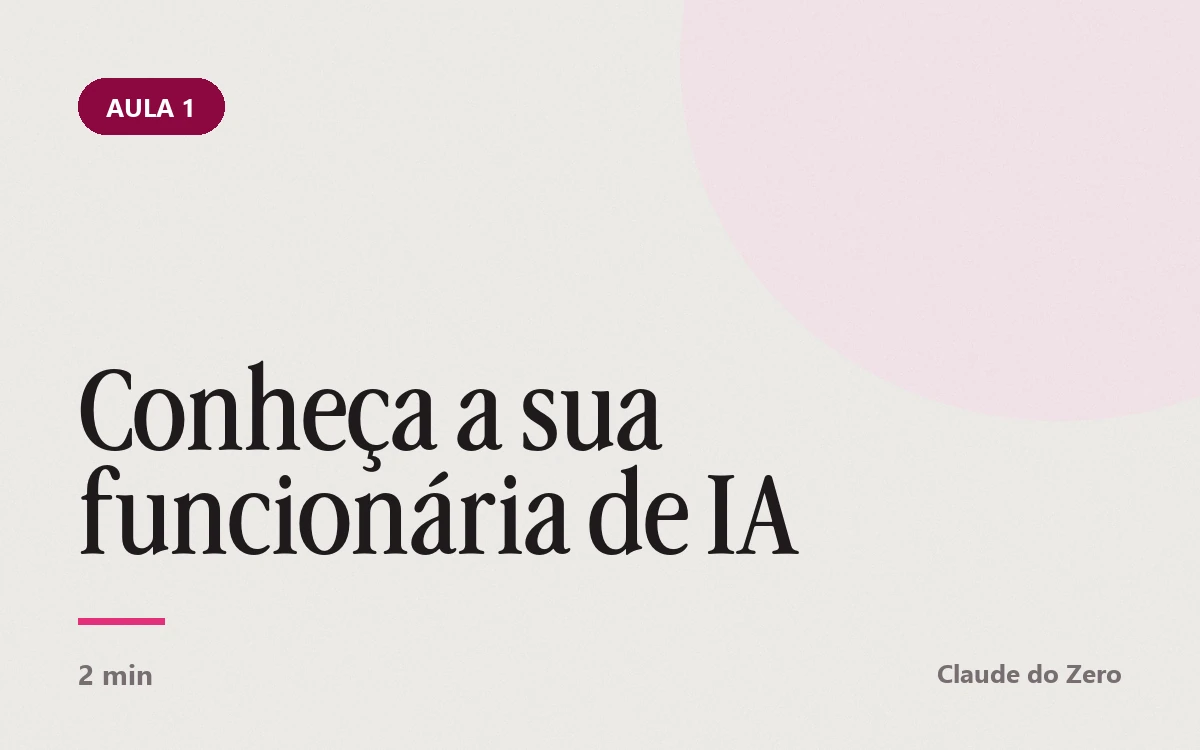
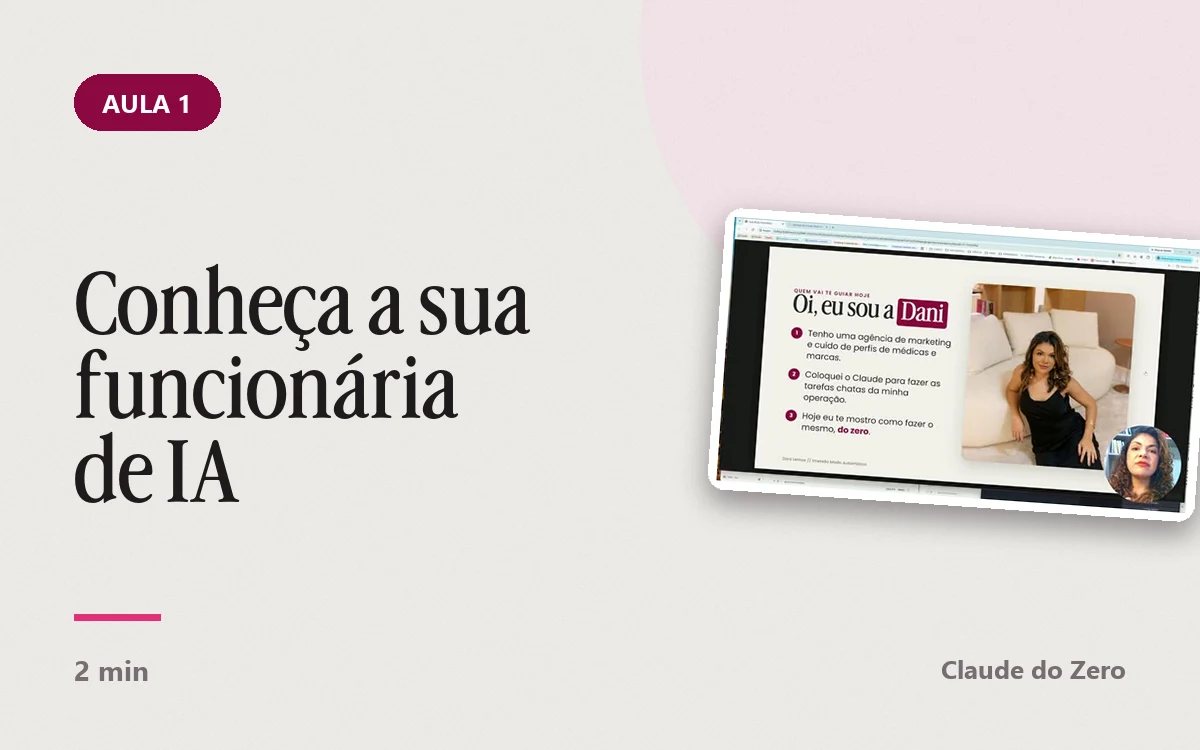
claude-do-zero: capas com tela real e icones das ferramentas, e o buraco entre topo e aulas fechado

diff --git a/claude-do-zero/index.html b/claude-do-zero/index.html
@@ -1,4 +1,4 @@
-<!doctype html>
+<!doctype html>
 <html lang="pt-BR">
 <head>
 <meta charset="utf-8">
@@ -211,7 +211,9 @@ footer .wrap{border-top:1px solid var(--linha-esc);padding-block:22px 90px;displ
 /* ---------- AS AULAS POR DENTRO ----------
    E o bloco que vende: o produto vira um produto, com capa, nome, numero e duracao, e da
    para arrastar e espiar. Cada capa e um quadro do proprio video da aula. */
-.aulas{padding-block:clamp(56px,8vw,92px)}
+/* o topo entrega direto nas aulas: sem respiro duplo no meio do escuro */
+.topo{padding-bottom:clamp(30px,4vw,48px)}
+.aulas{padding-block:clamp(30px,4vw,48px) clamp(56px,8vw,92px)}
 .aulas .cabeca{text-align:center;max-width:700px;margin:0 auto}
 .aulas .arraste{color:var(--suave);font-size:16px;margin-top:14px}
 .escuro .aulas .arraste{color:var(--suave-esc)}

diff --git a/claude-do-zero/montar-capas.py b/claude-do-zero/montar-capas.py
@@ -1,12 +1,16 @@
-"""Desenha as capas das aulas: uma por tema, no design system dela.
+"""Desenha as capas das aulas: uma por tema, no design system dela, com imagem real.
 
-A Dani vetou os quadros de video como capa. O que ela quer e um TEMPLATE: cada capa anuncia
-o que a aula faz, em frase de acao, do jeito que a pessoa pensa ("que plano do Claude
-assinar", "crie o seu clone no Claude").
+A Dani vetou duas coisas antes: o nome de aula como titulo (tem que ser uma acao que a
+pessoa imagina fazendo) e a capa sendo so texto (tem que ser visual). Entao cada capa tem:
 
-Molde da capa: papel gelo com grao, pastilha magenta com o numero, titulo grande em
-Advercase, filete magenta e o tempo no rodape. Clara de proposito, porque elas aparecem
-empilhadas em cima do fundo escuro do topo.
+  * pastilha magenta com o numero da aula;
+  * a acao em Advercase grande, do lado esquerdo;
+  * UMA TELA DE VERDADE da propria aula, encaixada do lado direito, torta e com sombra;
+  * nas aulas de ferramenta, os icones reais recortados da propria tela de conectores dela;
+  * filete magenta, tempo e assinatura no rodape.
+
+Entradas: os quadros em frames/ (tirados dos videos das aulas) e telas/descobrir.webp,
+de onde saem os icones de verdade do Google Drive, Gmail, Canva e Notion.
 
 Saida: aulas/capa-1.webp ... capa-8.webp
 """
@@ -15,35 +19,40 @@ import random
 from pathlib import Path
 
 from fontTools.ttLib import TTFont
-from PIL import Image, ImageDraw, ImageFont
+from PIL import Image, ImageDraw, ImageFilter, ImageFont
 
 AQUI = Path(__file__).resolve().parent
 ASSETS = Path("G:/Meu Drive/DANIELLE   PROJETOS/PRODUTOS DL ESTÚDIO/04 KIT E PLUGINS/_paginas/assets")
+FRAMES = Path("C:/Users/Micro/AppData/Local/Temp/claude/G--Meu-Drive-DANIELLE---PROJETOS-REDES-SOCIAIS---DANIELLE-LEMOS/2d521f0d-aa7d-472c-a4e3-26eedfd0f682/scratchpad/frames")
 DESTINO = AQUI / "aulas"
 
 L, A = 1200, 750
 GELO = (244, 242, 238)
-PAPEL = (251, 250, 248)
 TINTA = (32, 26, 29)
 MAGENTA = (139, 8, 63)
 ACESA = (226, 48, 122)
 SUAVE = (120, 110, 114)
 
+# (numero, titulo, tempo, quadro da aula, mostra os icones das ferramentas?)
 CAPAS = [
-    (1, "Conheça a sua\nfuncionária de IA", "2 min"),
-    (2, "Que plano do\nClaude assinar", "8 min"),
-    (3, "Crie o seu\nclone no Claude", "12 min"),
-    (4, "Ligue o Claude no\nseu Gmail e no Drive", "15 min"),
-    (5, "Peça uma página\ne receba o link", "12 min"),
-    (6, "Coloque o Claude\nno seu WhatsApp", "4 min"),
-    (7, "Crie robôs que\ntrabalham sozinhos", "5 min"),
-    (8, "Espie a plataforma\nda minha equipe", "6 min"),
+    (1, "Conheça a sua\nfuncionária\nde IA", "2 min", "a1.jpg", False),
+    (2, "Que plano\ndo Claude\nassinar", "8 min", "a2.jpg", False),
+    (3, "Crie o seu\nclone no\nClaude", "12 min", "a3.jpg", False),
+    (4, "Ligue o Claude\nno seu Gmail\ne no Drive", "15 min", "a4.jpg", True),
+    (5, "Peça uma\npágina e\nreceba o link", "12 min", "a5.jpg", False),
+    (6, "Coloque o\nClaude no seu\nWhatsApp", "4 min", "a6.jpg", False),
+    (7, "Crie robôs que\ntrabalham\nsozinhos", "5 min", "a7.jpg", False),
+    (8, "Espie a\nplataforma da\nminha equipe", "6 min", "a8.jpg", False),
 ]
 
+# recortes dos icones reais dentro de telas/descobrir.webp (1049x823)
+ICONES = [(238, 182), (636, 182), (238, 299), (636, 299), (636, 416)]
+LADO_ICONE = 48
 
-def fonte_de_woff2(arquivo, tamanho):
+
+def fonte_advercase(tamanho):
     """Pillow nao le woff2, entao a fonte e convertida para ttf na memoria."""
-    f = TTFont(ASSETS / arquivo)
+    f = TTFont(ASSETS / "Advercase-Regular.woff2")
     buf = io.BytesIO()
     f.flavor = None
     f.save(buf)
@@ -60,41 +69,78 @@ def poppins(tamanho):
     return ImageFont.load_default()
 
 
-def grao(img, forca=7):
-    random.seed(4)
-    ruido = Image.effect_noise((img.width, img.height), 24).convert("L")
-    return Image.blend(img, Image.merge("RGB", (ruido, ruido, ruido)), forca / 100)
+def cantos(img, raio):
+    mascara = Image.new("L", img.size, 0)
+    ImageDraw.Draw(mascara).rounded_rectangle([0, 0, img.width - 1, img.height - 1],
+                                              radius=raio, fill=255)
+    img.putalpha(mascara)
+    return img
 
 
-for numero, titulo, tempo in CAPAS:
+def tela_inclinada(caminho, largura, giro):
+    """O quadro da aula com moldura branca, canto arredondado e sombra."""
+    img = Image.open(caminho).convert("RGB")
+    altura = round(largura * img.height / img.width)
+    img = img.resize((largura, altura), Image.LANCZOS)
+
+    m = 9
+    com_moldura = Image.new("RGBA", (largura + m * 2, altura + m * 2), (255, 255, 255, 255))
+    com_moldura.paste(img, (m, m))
+    com_moldura = cantos(com_moldura, 16)
+
+    girada = com_moldura.rotate(giro, expand=True, resample=Image.BICUBIC)
+    folga = 40
+    tela = Image.new("RGBA", (girada.width + folga * 2, girada.height + folga * 2), (0, 0, 0, 0))
+    sombra = Image.new("RGBA", tela.size, (0, 0, 0, 0))
+    sombra.paste(Image.new("RGBA", girada.size, (40, 24, 32, 120)), (folga, folga + 12), girada)
+    tela.alpha_composite(sombra.filter(ImageFilter.GaussianBlur(14)))
+    tela.alpha_composite(girada, (folga, folga))
+    return tela
+
+
+def icones_reais():
+    """Os icones das ferramentas, recortados da tela de conectores de verdade dela."""
+    fonte = Image.open(AQUI / "telas" / "descobrir.webp").convert("RGBA")
+    return [fonte.crop((x, y, x + LADO_ICONE, y + LADO_ICONE)) for x, y in ICONES]
+
+
+for numero, titulo, tempo, quadro, com_icones in CAPAS:
     capa = Image.new("RGB", (L, A), GELO)
-    d = ImageDraw.Draw(capa)
-
-    # uma mancha magenta de canto, bem leve, para o fundo nao ficar cru
     manchinha = Image.new("RGB", (L, A), GELO)
-    ImageDraw.Draw(manchinha).ellipse([L - 520, -300, L + 240, 420], fill=(250, 232, 240))
+    ImageDraw.Draw(manchinha).ellipse([L - 560, -320, L + 260, 400], fill=(250, 232, 240))
     capa = Image.blend(capa, manchinha, 0.85)
-    capa = grao(capa)
+
+    random.seed(4)
+    ruido = Image.effect_noise((L, A), 24).convert("L")
+    capa = Image.blend(capa, Image.merge("RGB", (ruido, ruido, ruido)), 0.07).convert("RGBA")
+
+    # a tela da aula entra primeiro, do lado direito
+    giro = -4 if numero % 2 else 4
+    tela = tela_inclinada(FRAMES / quadro, 470, giro)
+    capa.alpha_composite(tela, (L - tela.width + 54, (A - tela.height) // 2 - 10))
+
     d = ImageDraw.Draw(capa)
+    margem = 74
 
-    margem = 78
-
-    # pastilha com o numero da aula
     rotulo = "BÔNUS" if numero == 8 else f"AULA {numero}"
     fr = poppins(26)
     larg = d.textlength(rotulo, font=fr)
     d.rounded_rectangle([margem, margem, margem + larg + 56, margem + 56], radius=28, fill=MAGENTA)
     d.text((margem + 28 + larg / 2, margem + 28), rotulo, font=fr, fill=(255, 255, 255), anchor="mm")
 
-    # titulo em Advercase, a estrela da capa
-    ft = fonte_de_woff2("Advercase-Regular.woff2", 92)
-    d.multiline_text((margem, A - 300), titulo, font=ft, fill=TINTA, spacing=12, anchor="ls")
+    ft = fonte_advercase(72)
+    d.multiline_text((margem, 262), titulo, font=ft, fill=TINTA, spacing=12, anchor="la")
 
-    # filete magenta e o tempo no rodape
-    d.rectangle([margem, A - 132, margem + 86, A - 126], fill=ACESA)
-    d.text((margem, A - 96), tempo, font=poppins(28), fill=SUAVE, anchor="la")
-    d.text((L - margem, A - 96), "Claude do Zero", font=poppins(26), fill=SUAVE, anchor="ra")
+    if com_icones:
+        x = margem
+        for icone in icones_reais():
+            capa.alpha_composite(icone, (x, A - 232))
+            x += LADO_ICONE + 16
+
+    d.rectangle([margem, A - 136, margem + 86, A - 130], fill=ACESA)
+    d.text((margem, A - 100), tempo, font=poppins(28), fill=SUAVE, anchor="la")
+    d.text((L - margem, A - 100), "Claude do Zero", font=poppins(26), fill=SUAVE, anchor="ra")
 
     saida = DESTINO / f"capa-{numero}.webp"
-    capa.save(saida, "WEBP", quality=90, method=6)
+    capa.convert("RGB").save(saida, "WEBP", quality=88, method=6)
     print(f"capa-{numero} {saida.stat().st_size // 1024} KB  {titulo.replace(chr(10), ' ')}")

diff --git a/claude-do-zero/aplicar-visual.py b/claude-do-zero/aplicar-visual.py
@@ -77,7 +77,9 @@ CSS = """
 /* ---------- AS AULAS POR DENTRO ----------
    E o bloco que vende: o produto vira um produto, com capa, nome, numero e duracao, e da
    para arrastar e espiar. Cada capa e um quadro do proprio video da aula. */
-.aulas{padding-block:clamp(56px,8vw,92px)}
+/* o topo entrega direto nas aulas: sem respiro duplo no meio do escuro */
+.topo{padding-bottom:clamp(30px,4vw,48px)}
+.aulas{padding-block:clamp(30px,4vw,48px) clamp(56px,8vw,92px)}
 .aulas .cabeca{text-align:center;max-width:700px;margin:0 auto}
 .aulas .arraste{color:var(--suave);font-size:16px;margin-top:14px}
 .escuro .aulas .arraste{color:var(--suave-esc)}
